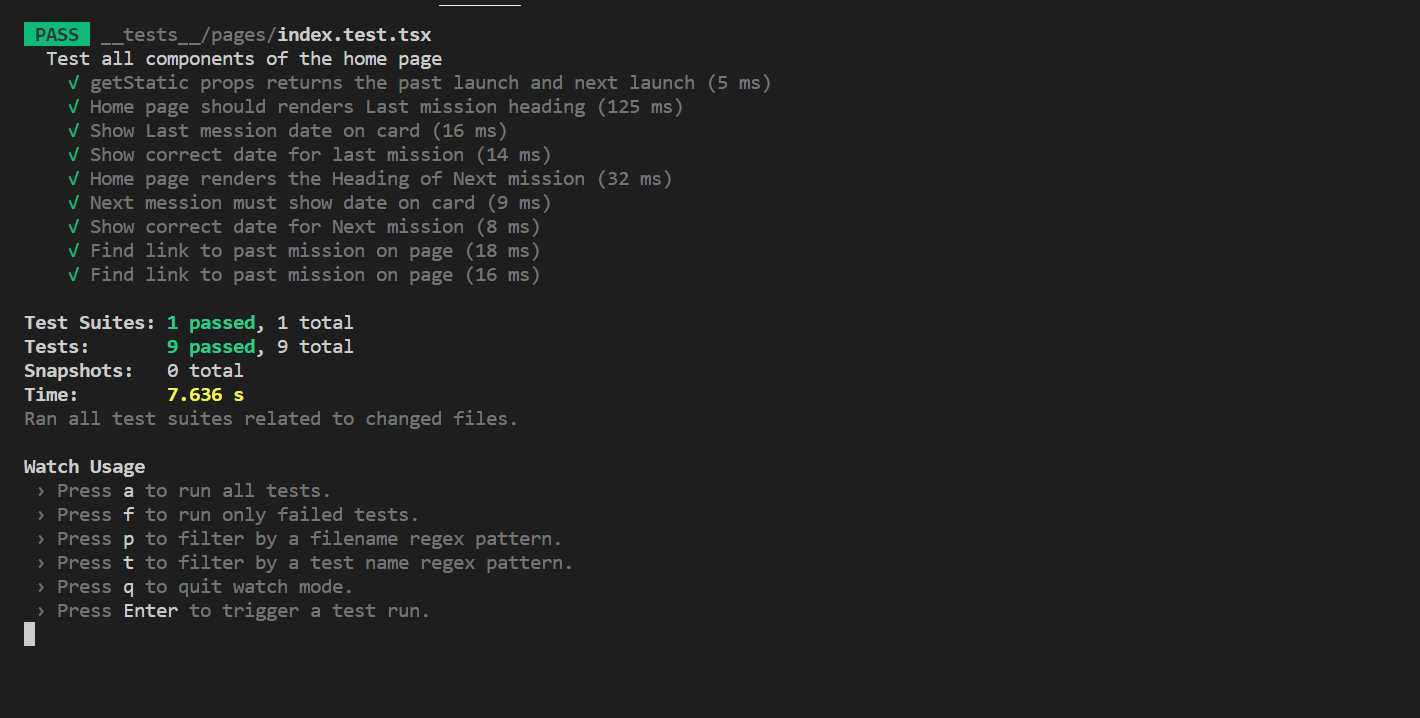
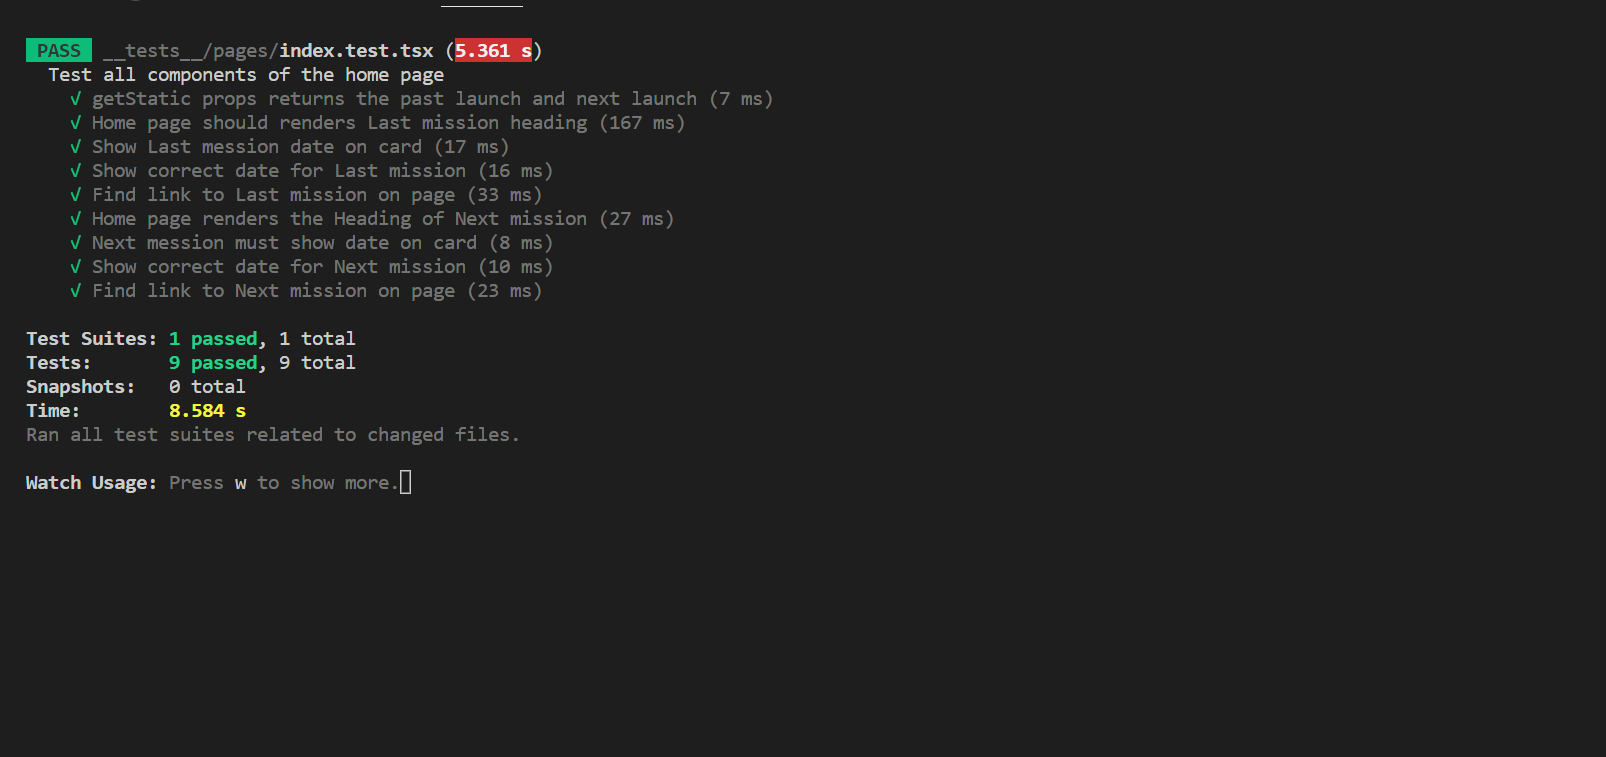
updates on test

diff --git a/__tests__/pages/index.test.tsx b/__tests__/pages/index.test.tsx
@@ -159,7 +159,7 @@ describe("Test all components of the home page", () => {
     const missionDate = screen.getByTestId("last-date");
     expect(missionDate).toBeInTheDocument();
   });
-  it("Show correct date for last mission", () => {
+  it("Show correct date for Last mission", () => {
     const { getByTestId } = render(
       <Home
         latestLaunch={TEST_LAUNCHE_QUERY.latestLaunch}
@@ -172,6 +172,20 @@ describe("Test all components of the home page", () => {
     expect(missionCorrectDate.textContent).toContain(
       new Date(TEST_LAUNCHE_QUERY.latestLaunch.launch_date_utc).toDateString()
     );
+  });
+  it("Find link to Last mission on page", () => {
+    render(
+      <Home
+        latestLaunch={TEST_LAUNCHE_QUERY.latestLaunch}
+        launchNext={TEST_LAUNCHE_QUERY.launchNext}
+        loading={TEST_LAUNCHE_QUERY.loading}
+      />
+    );
+
+    const missionLink = screen.getByRole("link", {
+      name: "Open Next Mission ...",
+    });
+    expect(missionLink).toBeInTheDocument();
   });
   it("Home page renders the Heading of Next mission", () => {
     const TEST_LAUNCHE_QUERY: ILaunchDetails = {
@@ -307,21 +321,7 @@ describe("Test all components of the home page", () => {
       new Date(TEST_LAUNCHE_QUERY.launchNext.launch_date_utc).toDateString()
     );
   });
-  it("Find link to past mission on page", () => {
-    render(
-      <Home
-        latestLaunch={TEST_LAUNCHE_QUERY.latestLaunch}
-        launchNext={TEST_LAUNCHE_QUERY.launchNext}
-        loading={TEST_LAUNCHE_QUERY.loading}
-      />
-    );
-
-    const missionLink = screen.getByRole("link", {
-      name: "Open Next Mission ...",
-    });
-    expect(missionLink).toBeInTheDocument();
-  });
-  it("Find link to past mission on page", () => {
+  it("Find link to Next mission on page", () => {
     render(
       <Home
         latestLaunch={TEST_LAUNCHE_QUERY.latestLaunch}
